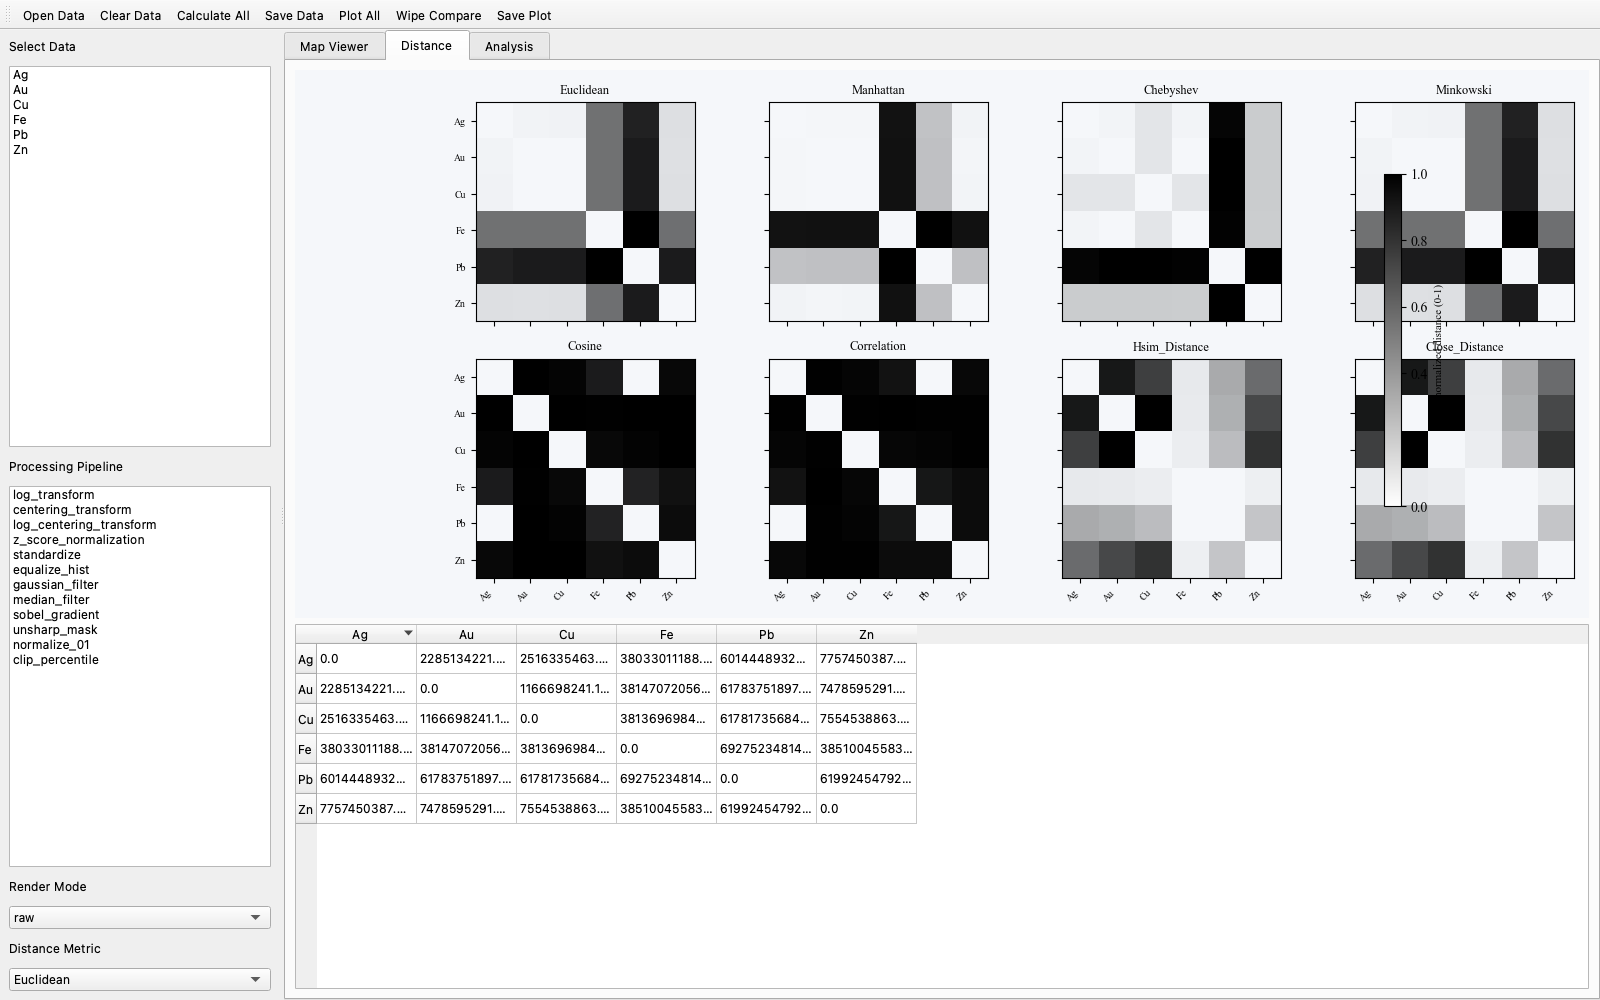
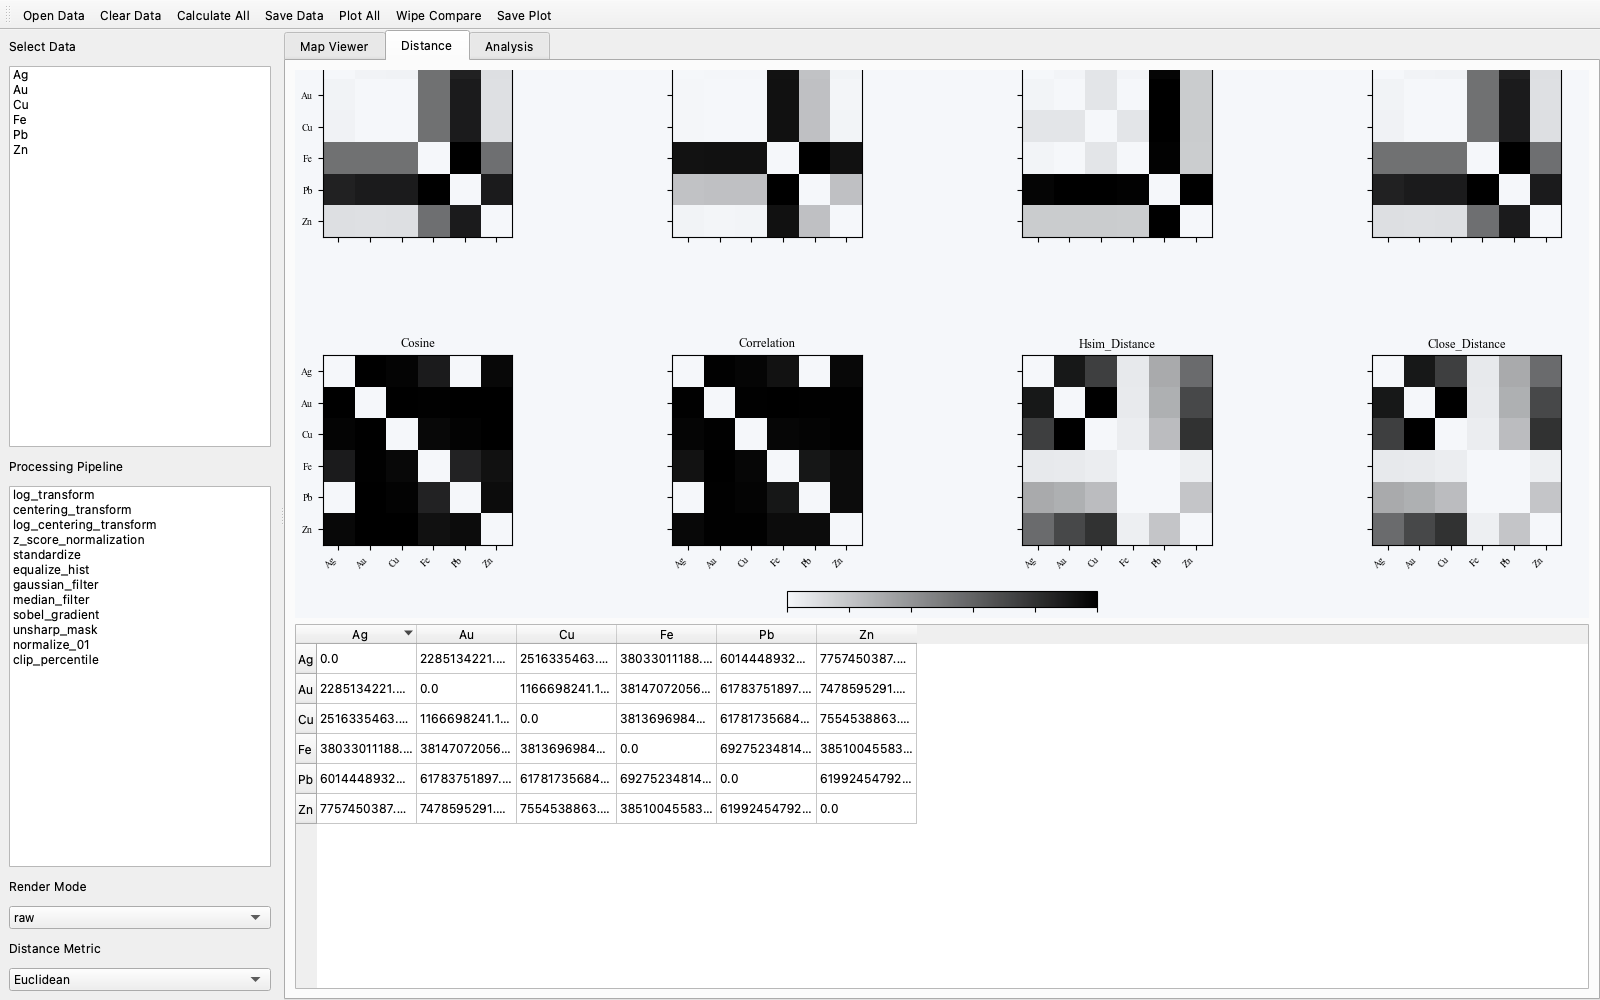
v1.2.5: distance grid 2x4 with constrained_layout, horizontal colorbar
- 8 heatmaps in 2x4 grid, evenly distributed via constrained_layout
- Horizontal colorbar below the grid, no intrusion into heatmaps
- Left/right gaps balanced

Changed region(s): [[0.1875, 0.062, 0.8125, 0.62], [0.8438, 0.062, 1.0, 0.589]]

diff --git a/cpsvisualizer/src/cpsvisualizer/app.py b/cpsvisualizer/src/cpsvisualizer/app.py
@@ -707,9 +707,8 @@ class CPSVisualizer(QMainWindow):
                  'Bray_Curtis', 'Canberra']
 
     def _plot_distance_grid(self):
-        """Render the representative distance metrics as a 2x4 grid of
-        0-1 normalized heatmaps on the Distance tab, with a shared colorbar
-        on the far right."""
+        """Render 8 representative distance metrics as a 2x4 grid of
+        0-1 normalized heatmaps, with a shared colorbar below the grid."""
         fig = self._dist_canvas.figure
         fig.clear()
         fig.patch.set_facecolor(FIG_BG)
@@ -725,6 +724,8 @@ class CPSVisualizer(QMainWindow):
         all_metrics = [m for m in self.DIST_GRID if m in self._dist_funcs]
         nrows, ncols = 2, 4
         metrics = all_metrics[:nrows * ncols]
+        fig.set_layout_engine('constrained', wspace=0.35, hspace=0.35,
+                              rect=[0, 0.08, 1, 1])
         images = []
         for pos, mname in enumerate(metrics):
             if mname not in self.result_df_dict:
@@ -756,16 +757,17 @@ class CPSVisualizer(QMainWindow):
                 ax.set_yticklabels(names, fontsize=7)
             else:
                 ax.set_yticklabels([])
-        # shared colorbar at far right, outside the subplot grid
+        # horizontal colorbar below the grid, centred
         if images:
             import matplotlib as _mpl
             norm = _mpl.colors.Normalize(vmin=0.0, vmax=1.0)
             sm = _mpl.cm.ScalarMappable(cmap=ink_colormap(), norm=norm)
             sm.set_array([])
-            cbar = fig.colorbar(sm, ax=fig.get_axes(),
-                                shrink=0.7, pad=0.02)
+            cax = fig.add_axes([0.38, 0.02, 0.24, 0.03])
+            cax.set_facecolor(FIG_BG)
+            cbar = fig.colorbar(sm, cax=cax, orientation='horizontal')
             cbar.set_label('normalized distance (0-1)', fontsize=8)
-        fig.tight_layout()
+            cbar.ax.tick_params(labelsize=7)
         self._dist_canvas.draw()
 
     def _plot_distance_heatmap(self, name):

diff --git a/cpsvisualizer/src/setup.py b/cpsvisualizer/src/setup.py
@@ -15,7 +15,7 @@ except Exception:
 
 setup(
     name='cpsvisualizer',
-    version='1.2.4',
+    version='1.2.5',
     description='CPS-Visualizer: Visualization, similarity measurement, and statistical analysis of LA-ICP-MS surface scan data.',
     long_description=README,
     long_description_content_type='text/markdown',
